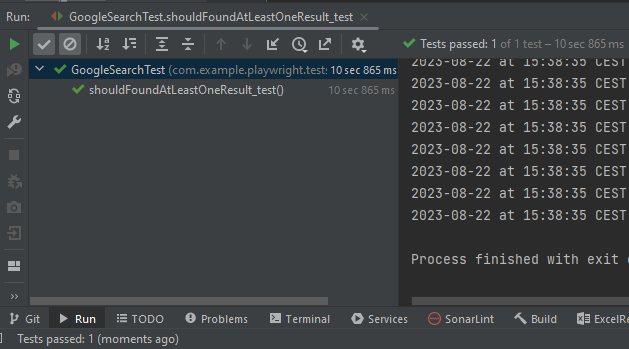
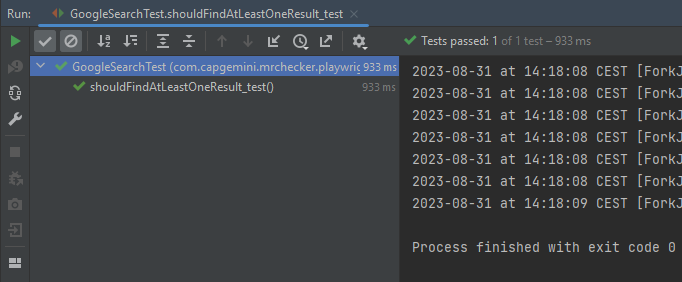
change page and test classes extension to BasePage and BaseTest correct test method name

diff --git a/mrchecker-playwright-junit-example/src/test/java/com/capgemini/mrchecker/playwright/example/test/GoogleSearchTest.java b/mrchecker-playwright-junit-example/src/test/java/com/capgemini/mrchecker/playwright/example/test/GoogleSearchTest.java
@@ -1,6 +1,6 @@
 package com.capgemini.mrchecker.playwright.example.test;
 
-import com.capgemini.mrchecker.playwright.example.base.BaseTestGUI;
+import com.capgemini.mrchecker.test.core.BaseTest;
 import com.capgemini.mrchecker.test.core.utils.PageFactory;
 import com.capgemini.mrchecker.playwright.example.page.GoogleResultPage;
 import com.capgemini.mrchecker.playwright.example.page.GoogleSearchPage;
@@ -8,24 +8,24 @@ import org.junit.jupiter.api.Test;
 
 import static org.junit.jupiter.api.Assertions.assertTrue;
 
-public class GoogleSearchTest extends BaseTestGUI {
+public class GoogleSearchTest extends BaseTest {
     // Initialize page instances
     private final GoogleSearchPage googleSearchPage = PageFactory.getPageInstance(GoogleSearchPage.class);
     private final GoogleResultPage googleResultPage = PageFactory.getPageInstance(GoogleResultPage.class);
 
     @Override
-    public void tearDownTest() {
+    public void tearDown() {
         // Add any cleanup or finalization logic here
     }
 
     @Override
-    public void setUpTest() {
+    public void setUp() {
         // Navigate to the Google Search page
-        googleSearchPage.startPage();
+        googleSearchPage.load();
     }
 
     @Test
-    public void shouldFoundAtLeastOneResult_test() {
+    public void shouldFindAtLeastOneResult_test() {
         // Enter "Test" and perform search
         googleSearchPage.enterGoogleSearchInput("Test");
 

diff --git a/mrchecker-playwright-junit-example/src/main/java/com/capgemini/mrchecker/playwright/example/page/GoogleSearchPage.java b/mrchecker-playwright-junit-example/src/main/java/com/capgemini/mrchecker/playwright/example/page/GoogleSearchPage.java
@@ -1,17 +1,26 @@
 package com.capgemini.mrchecker.playwright.example.page;
 
-import com.capgemini.mrchecker.playwright.example.base.BasePageGUI;
+import com.capgemini.mrchecker.playwright.core.BasePage;
 import com.capgemini.mrchecker.playwright.example.env.GetEnvironmentParam;
 
-public class GoogleSearchPage extends BasePageGUI {
-	// URL of the Google search page
-	private final String url = GetEnvironmentParam.GOOGLE_URL.getValue();
+public class GoogleSearchPage extends BasePage {
 	// Selectors for web elements
 	private final String selectorGoogleSearchInput = "[type='search']";
 	private final String selectorGoogleSearchButton = "[class='FPdoLc lJ9FBc'] .gNO89b";
 
-	// Navigate to the Google search page
-	public void startPage() {
+	@Override
+	public String pageTitle() {
+		return null;
+	}
+
+	@Override
+	public boolean isLoaded() {
+		return false;
+	}
+
+	@Override
+	public void load() {
+		String url = GetEnvironmentParam.GOOGLE_URL.getValue();
 		loadPage(url);
 	}
 

diff --git a/mrchecker-playwright-junit-example/src/main/java/com/capgemini/mrchecker/playwright/example/page/GoogleResultPage.java b/mrchecker-playwright-junit-example/src/main/java/com/capgemini/mrchecker/playwright/example/page/GoogleResultPage.java
@@ -1,11 +1,27 @@
 package com.capgemini.mrchecker.playwright.example.page;
 
+import com.capgemini.mrchecker.playwright.core.BasePage;
 import com.capgemini.mrchecker.playwright.example.base.BasePageGUI;
 import com.microsoft.playwright.Page;
 
-public class GoogleResultPage extends BasePageGUI {
+public class GoogleResultPage extends BasePage {
 	// Selector for search result items
 	private final String selectorSearchResult = "#search .v7W49e > div";
+
+	@Override
+	public String pageTitle() {
+		return null;
+	}
+
+	@Override
+	public boolean isLoaded() {
+		return false;
+	}
+
+	@Override
+	public void load() {
+
+	}
 
 	// Retrieve the number of search results
 	public int getResultsNumber() {
